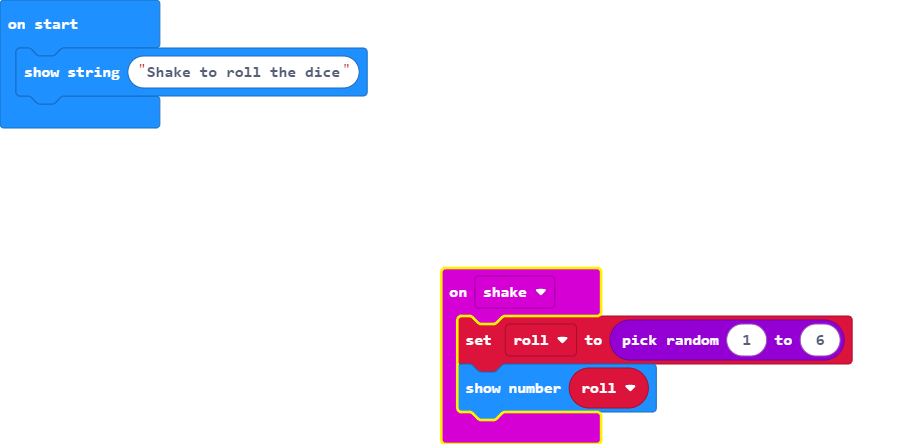
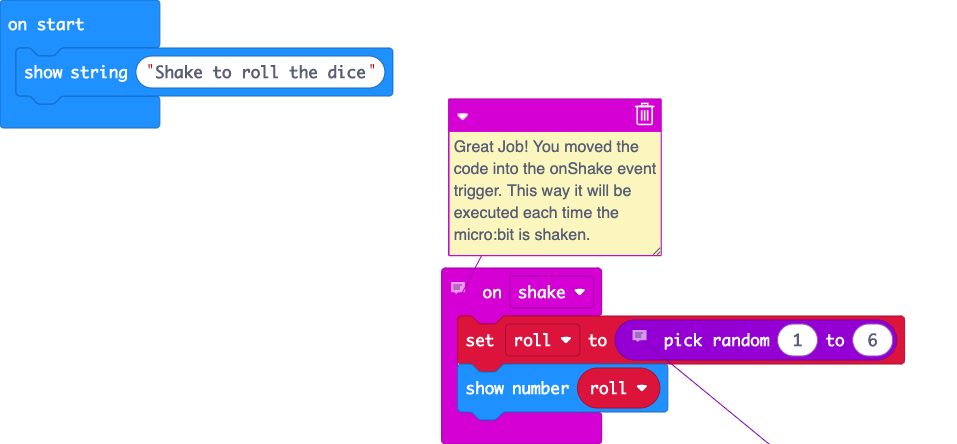
Teacher Feedback.

diff --git a/main.ts b/main.ts
@@ -1,4 +1,6 @@
+// Great Job! You moved the code into the onShake event trigger. This way it will be executed each time the micro:bit is shaken.
 input.onGesture(Gesture.Shake, function () {
+    // Awesome! You correctly set the limits of the dice roll to between 1 and 6.
     roll = randint(1, 6)
     basic.showNumber(roll)
 })
